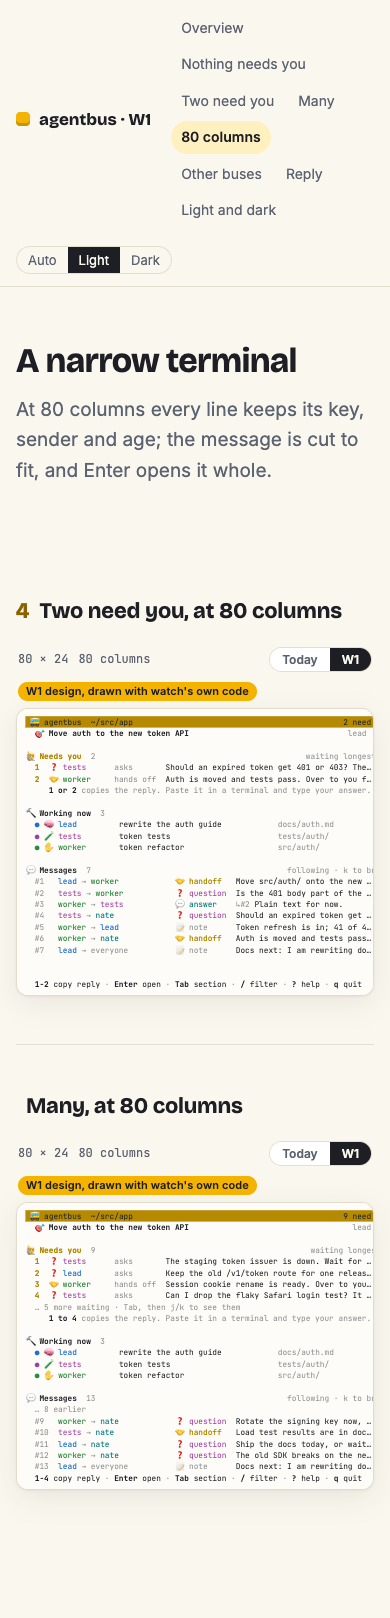
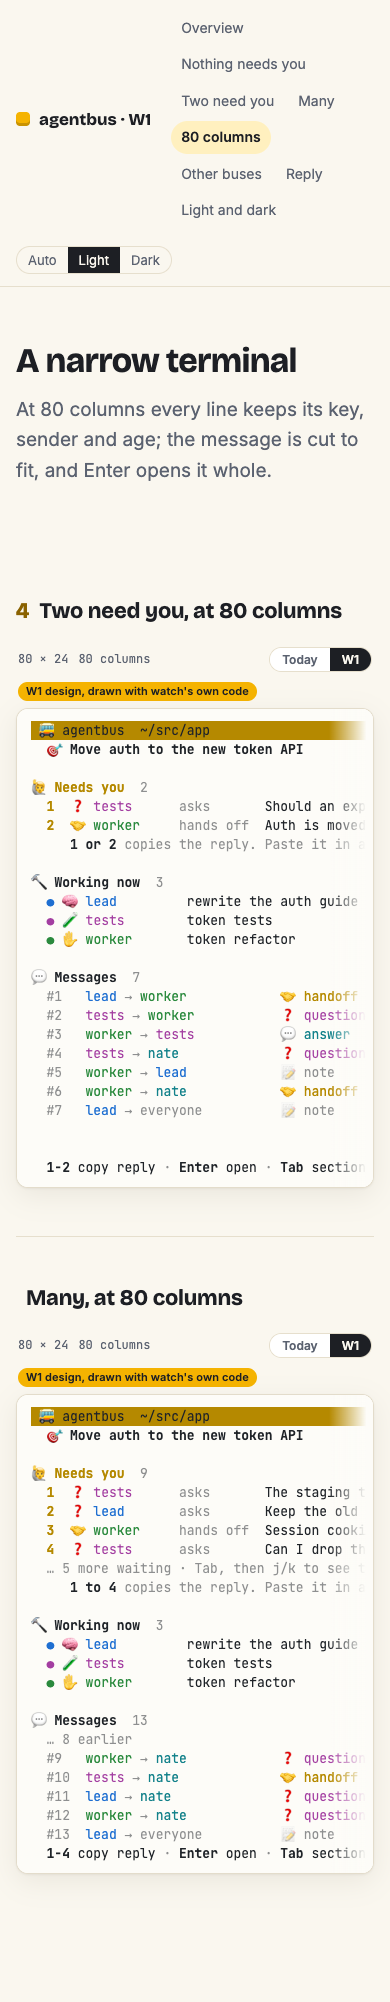
Storyboard W1: phone terminal scrolls, dark phone themes shot (#89)

diff --git a/storyboard/assets/term.js b/storyboard/assets/term.js
@@ -47,19 +47,36 @@
 
   var terms = [];
 
+  // Under this width the terminal keeps its real size and scrolls sideways inside its card.
+  var PHONE = window.matchMedia ? window.matchMedia("(max-width: 700px)") : { matches: false };
+
+  function cue(t) {
+    var b = t.box, more = b.scrollWidth - b.clientWidth - b.scrollLeft > 2;
+    t.wrap.classList.toggle("more", b.classList.contains("scrolls") && more);
+  }
+
   function fit(t) {
-    var outer = t.box, inner = t.inner;
+    var outer = t.box, inner = t.inner, fig = t.fig;
     inner.style.marginRight = "0px";
-    outer.parentNode.style.maxWidth = "";
+    fig.style.maxWidth = "";
     var natural = inner.scrollWidth, h = inner.scrollHeight;
     if (!natural) return;
-    // Fit the width, but never below 60%: past that a phone scrolls the terminal sideways instead.
+    if (PHONE.matches) {
+      // Real column count, real font size: the card scrolls, nothing is shrunk or clipped.
+      outer.classList.toggle("scrolls", natural > outer.clientWidth + 1);
+      inner.style.transform = "";
+      outer.style.height = Math.ceil(h) + "px";
+      cue(t);
+      return;
+    }
+    // Fit the width, but never below 60%.
     var s = Math.max(0.6, Math.min(1, outer.clientWidth / natural));
     outer.classList.toggle("scrolls", s * natural > outer.clientWidth + 1);
     inner.style.transform = "scale(" + s + ")";
     inner.style.marginRight = Math.floor(natural * s - natural) + "px";  // the layout box shrinks with the picture
     outer.style.height = Math.ceil(h * s) + "px";
-    outer.parentNode.style.maxWidth = Math.ceil(natural * s) + 2 + "px";
+    fig.style.maxWidth = Math.ceil(natural * s) + 2 + "px";
+    cue(t);
   }
 
   function make(fig) {
@@ -93,8 +110,12 @@
     var inner = document.createElement("div");
     inner.className = "term-inner";
     box.appendChild(inner);
+    var wrap = document.createElement("div");
+    wrap.className = "term-wrap";
+    wrap.appendChild(box);
     fig.appendChild(bar);
-    fig.appendChild(box);
+    fig.appendChild(wrap);
+    box.addEventListener("scroll", function () { cue(t); }, { passive: true });
     if (compare) {
       var sw = document.createElement("div");
       sw.className = "switch";
@@ -145,7 +166,8 @@
     }
     term.open(inner);
     box.style.background = THEMES[theme(fig)].background;
-    var t = { term: term, fig: fig, box: box, inner: inner, steps: steps, set: set, stamp: stamp, timers: [] };
+    wrap.style.setProperty("--term-bg", THEMES[theme(fig)].background);
+    var t = { term: term, fig: fig, wrap: wrap, box: box, inner: inner, steps: steps, set: set, stamp: stamp, timers: [] };
     terms.push(t);
     show(t, 0);
     setTimeout(function () { fit(t); }, 30);
@@ -170,7 +192,7 @@
   }
 
   function retheme() {
-    terms.forEach(function (t) { var th = THEMES[theme(t.fig)]; t.term.options.theme = th; t.box.style.background = th.background; });
+    terms.forEach(function (t) { var th = THEMES[theme(t.fig)]; t.term.options.theme = th; t.box.style.background = th.background; t.wrap.style.setProperty("--term-bg", th.background); });
   }
 
   function start() {

diff --git a/storyboard/assets/sb.css b/storyboard/assets/sb.css
@@ -110,6 +110,14 @@ figure.term { margin: 0; min-width: 0; }
   box-shadow: var(--shadow); background: var(--surface);
 }
 .term-box.scrolls { overflow-x: auto; overflow-y: hidden; -webkit-overflow-scrolling: touch; }
+.term-wrap { position: relative; }
+.term-wrap::after {
+  content: ""; position: absolute; top: 1px; right: 1px; bottom: 1px; width: 44px; pointer-events: none;
+  border-radius: 0 11px 11px 0; opacity: 0; transition: opacity .15s;
+  background: linear-gradient(to right, transparent, var(--term-bg, var(--surface)) 85%);
+}
+.term-wrap.more::after { opacity: 1; }
+.term-box.scrolls { overscroll-behavior-x: contain; touch-action: pan-x pan-y; }
 .term-inner { transform-origin: 0 0; width: max-content; padding: 12px 14px; }
 .term-inner .xterm { cursor: default; }
 .term-inner .xterm-viewport { overflow: hidden !important; }

diff --git a/storyboard/capture/shots.py b/storyboard/capture/shots.py
@@ -1,0 +1,67 @@
+#!/usr/bin/env python3
+"""Screenshot every W1 storyboard page: light and dark, desktop and phone (issue 89).
+
+  python3 storyboard/capture/shots.py
+
+Headless, through agent-browser (never a visible window). Writes storyboard/shots/<page>-<theme>-<device>.png
+for every page that w1_pages.py lists, and exits non-zero if any of them is missing or empty afterwards, so a
+skipped shot cannot go unnoticed. A shot waits until every drawn terminal has painted before it is taken.
+"""
+import os
+import subprocess
+import sys
+
+HERE = os.path.dirname(os.path.abspath(__file__))
+SB = os.path.dirname(HERE)
+sys.path.insert(0, HERE)
+from w1_pages import PAGES  # noqa: E402
+
+OUT = os.path.join(SB, "shots")
+DEVICES = (("desktop", 1280, 900), ("phone", 390, 844))
+THEMES = ("light", "dark")
+SESSION = "agentbus-storyboard-shots"
+
+READY = ("(function(){var f=document.querySelectorAll('figure.term');"
+         "return f.length>0&&document.querySelectorAll('figure.term .xterm-rows').length===f.length"
+         "&&!document.querySelector('figure.term .missing')})()")
+
+
+def ab(*args, check=True):
+    p = subprocess.run(["agent-browser", "--session", SESSION, *args], stdout=subprocess.PIPE,
+                       stderr=subprocess.STDOUT, text=True)
+    if check and p.returncode:
+        raise SystemExit(f"agent-browser {' '.join(args)}: {p.stdout}")
+    return p.stdout
+
+
+def main():
+    os.makedirs(OUT, exist_ok=True)
+    wanted = []
+    try:
+        for page, _ in PAGES:
+            name = page[:-5]
+            for dev, w, h in DEVICES:
+                ab("set", "viewport", str(w), str(h))
+                for theme in THEMES:
+                    path = os.path.join(OUT, f"{name}-{theme}-{dev}.png")
+                    wanted.append(path)
+                    if os.path.exists(path):
+                        os.remove(path)
+                    url = "file://" + os.path.join(SB, "w1", page) + f"?theme={theme}"
+                    ab("open", url)
+                    for _ in range(40):  # up to 10 s for fonts and terminals
+                        if "true" in ab("eval", READY, check=False):
+                            break
+                        ab("wait", "250")
+                    ab("wait", "500")
+                    ab("screenshot", "--full", path)
+    finally:
+        ab("close", check=False)
+    bad = [p for p in wanted if not os.path.exists(p) or os.path.getsize(p) == 0]
+    if bad:
+        raise SystemExit("missing shots:\n" + "\n".join(bad))
+    print(f"wrote {len(wanted)} shots to storyboard/shots/")
+
+
+if __name__ == "__main__":
+    main()
